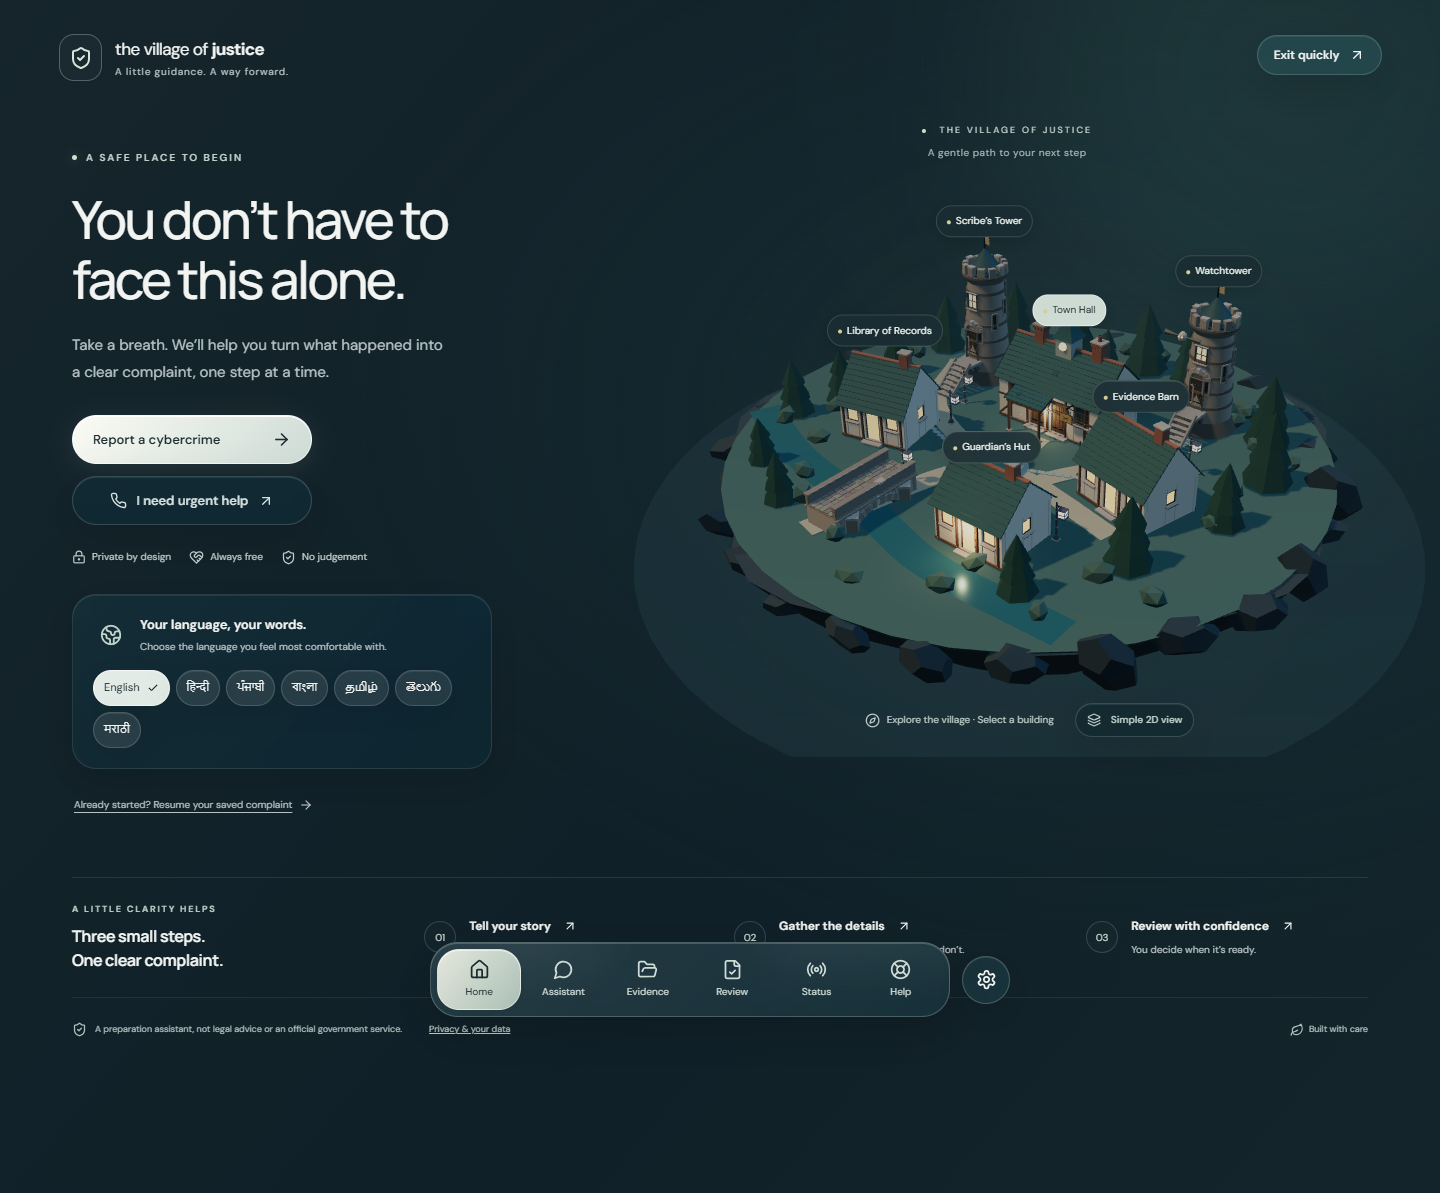
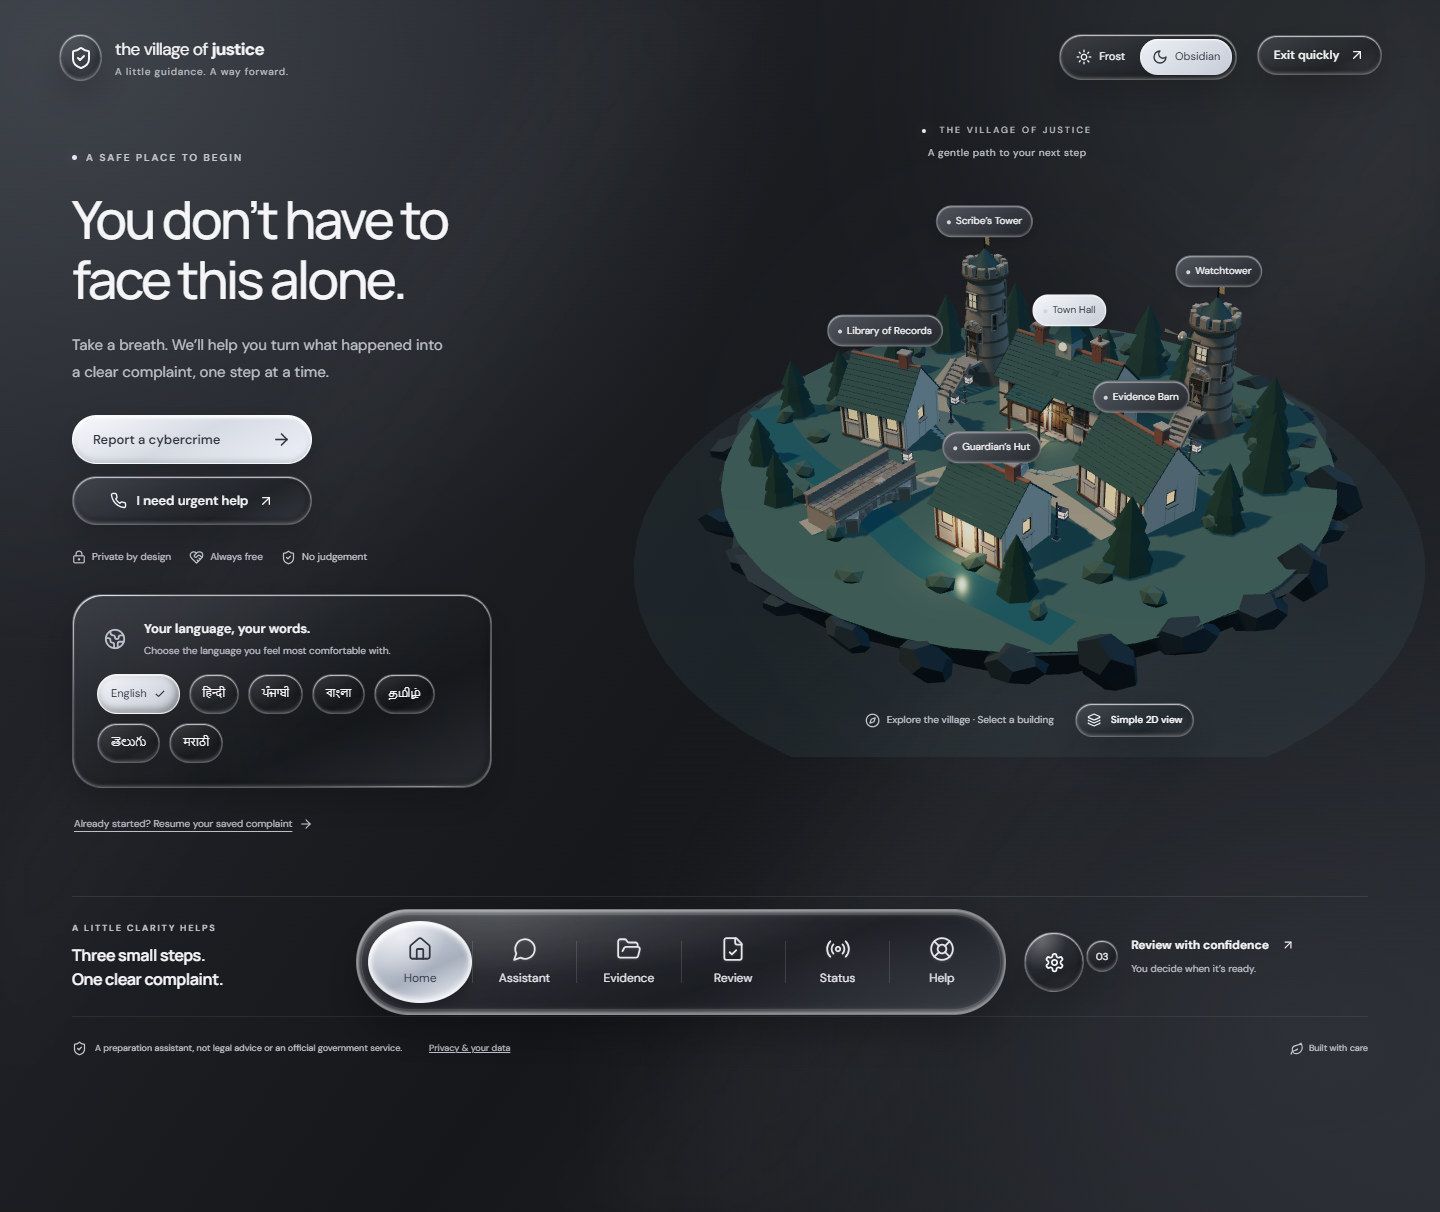
Update Site source

diff --git a/src/liquid-glass.css b/src/liquid-glass.css
@@ -1,0 +1,61 @@
+/* Sculpted optical surfaces, translated from the user's Frost / Obsidian reference. */
+:root{--bg:#191b1f;--text:#f5f5f7;--muted:#bdc0c8;--panel:rgba(32,34,39,.96);--scrim:rgba(27,29,34,.97);--glass:rgba(255,255,255,.08);--border:rgba(236,240,255,.23);--edge-light:rgba(255,255,255,.72);--edge-soft:rgba(255,255,255,.18);--edge-dark:rgba(0,0,0,.4);--surface:linear-gradient(155deg,rgba(219,225,240,.14),rgba(255,255,255,.025) 39%,rgba(0,0,0,.13) 67%,rgba(206,215,232,.09));--glass-shadow:inset 0 1px 1px var(--edge-light),inset 1px 0 2px var(--edge-soft),inset 0 -2px 3px var(--edge-soft),inset -2px -3px 8px var(--edge-dark),0 16px 35px rgba(0,0,0,.18);--radius:30px}
+.app{color:var(--text);background:radial-gradient(ellipse at 5% 4%,#5c626b78,transparent 37%),radial-gradient(ellipse at 90% 85%,#5f657133,transparent 40%),linear-gradient(125deg,#272a30,#15171a 55%,#24272c)}
+.app:before{content:'';position:absolute;inset:0;z-index:-1;pointer-events:none;background:linear-gradient(125deg,transparent 25%,#ffffff05 28%,transparent 35%,transparent 60%,#ffffff06 66%,transparent 75%);filter:blur(24px)}
+.ambient-one{background:#cad2df;opacity:.1}.ambient-two{background:#bcc5d6;opacity:.08}
+.glass{background:var(--surface);border:1px solid var(--border);box-shadow:var(--glass-shadow);backdrop-filter:blur(24px) saturate(110%);-webkit-backdrop-filter:blur(24px) saturate(110%)}
+.glass:is(.card,.workspace-panel,.modal,.urgent-card,.chat-bubble,.toast){position:relative;isolation:isolate}
+.glass:is(.card,.workspace-panel,.modal,.urgent-card,.chat-bubble):before{content:'';position:absolute;inset:0;border-radius:inherit;pointer-events:none;padding:1px;background:linear-gradient(135deg,#ffffffc9,transparent 18%,transparent 67%,#ffffff69 90%,transparent);mask:linear-gradient(#fff 0 0) content-box,linear-gradient(#fff 0 0);mask-composite:exclude}
+.button,.chip{background:var(--surface);box-shadow:var(--glass-shadow);border-color:var(--border);color:var(--text)}
+.button:after{content:'';position:absolute;inset:-80% -50%;pointer-events:none;background:linear-gradient(110deg,transparent 40%,#ffffff1f 49%,transparent 58%);transform:translateX(-65%) rotate(-10deg);transition:transform .65s ease}
+.button:hover:after{transform:translateX(65%) rotate(-10deg)}
+.button:not(:disabled):hover,.chip:hover{background:linear-gradient(155deg,#ffffff25,#ffffff05 50%,#ffffff13);box-shadow:var(--glass-shadow)}
+.primary{background:linear-gradient(155deg,#f8f9fd,#d7dbe3 48%,#edf0f7);color:#30343d;border-color:#ffffffc9;box-shadow:inset 0 2px 3px white,inset 0 -3px 5px #8992a250,0 9px 24px #0002}
+.primary:not(:disabled):hover{background:linear-gradient(155deg,#fff,#dfe3eb);color:#232731}
+.home-actions .secondary{background:var(--surface);color:var(--text)}
+.icon-button{border-radius:50%;background:radial-gradient(ellipse at 28% 8%,#ffffff30,transparent 43%),var(--surface);box-shadow:var(--glass-shadow)}
+.brand-mark{color:var(--text);border-color:var(--border);background:var(--surface);box-shadow:var(--glass-shadow);border-radius:50%}
+.language-card{background:var(--surface);border-color:var(--border);border-radius:30px;padding:24px}
+.language-icon{color:var(--muted)}.language-options{gap:9px}.language-options .chip{min-height:40px;padding:8px 13px}
+.chip[aria-pressed=true]{background:linear-gradient(145deg,#f4f5fa,#c5cad4);color:#2d323b;border-color:#fff9}
+.eyebrow,.trust-row span,.scene-heading,.scene-subtitle,.scene-caption,.footer-note,.footer-note button,.footer-leaf{color:#c4c7ce}
+.eyebrow>span,.tiny-dot{background:#e4e6ed;box-shadow:0 0 10px #ffffff30}
+.scene-mode{background:var(--surface);color:var(--text)}
+.village-label{background:linear-gradient(150deg,#555962eb,#22252aed)!important;color:#f5f5f7!important;border-color:#ffffff40!important;box-shadow:inset 0 1px 1px #ffffff8a,inset 0 -1px 2px #ffffff40,0 5px 12px #0002!important}
+.village-label[data-active=true],.village-label[data-hover=true]{background:linear-gradient(150deg,#f6f7fb,#c5cbd5)!important;color:#2e333d!important}
+.village-label-dot{background:#d0d3db}.journey-step>span{color:var(--text);border-color:var(--border);background:var(--surface);box-shadow:var(--glass-shadow)}
+.workspace-panel,.modal,.toast{background:linear-gradient(145deg,#ffffff0c,transparent 45%),var(--panel)}
+.document{background:var(--scrim)}.input{background:linear-gradient(160deg,#00000013,#ffffff05);box-shadow:inset 0 2px 6px #0002,inset 0 -1px 1px #ffffff38;border-radius:22px}
+.chat-bubble{background:linear-gradient(145deg,#ffffff12,#ffffff04);border-radius:28px 28px 28px 10px}.previous-answer{background:linear-gradient(145deg,#ffffff23,#ffffff0b)}
+.progress-track span{background:#cdd1dc}.status-timeline i.done{background:#c2c7d2}.status-emblem{background:var(--surface);box-shadow:var(--glass-shadow);border-color:var(--border)}
+.urgent-card{background:var(--surface)}.theme-switch{background:var(--surface)}
+.theme-switch button[aria-pressed=true]{background:linear-gradient(150deg,#fff,#c9ced8);color:#303641;box-shadow:inset 0 1px 2px #fff,0 3px 8px #0002}
+.switch{width:74px;height:44px;border-radius:99px;padding:6px;background:#11131888;box-shadow:inset 0 2px 4px #0006,inset 0 -1px 2px #ffffff50;border:2px solid #9297a075}
+.switch span{width:28px;height:28px;background:linear-gradient(135deg,#e3e6ee,#8e95a2);box-shadow:inset 0 1px 2px white,0 3px 7px #0006}
+.switch[aria-checked=true] span{transform:translateX(28px);background:linear-gradient(135deg,#fff,#ccd1db)}
+.dock-wrap{gap:18px;bottom:max(25px,env(safe-area-inset-bottom))}
+.dock{--dock-width:650px;border-radius:70px;padding:11px;background:radial-gradient(ellipse at 22% 0%,#ffffff29,transparent 45%),linear-gradient(160deg,#5a5e686e,#1c1e24d9 60%,#666d7a4d);border:1px solid #ffffff69;box-shadow:inset 0 3px 4px #ffffff7d,inset 2px 0 4px #ffffff40,inset 0 -3px 4px #ffffff69,inset 0 0 12px #ffffff15,0 20px 40px #0004;backdrop-filter:blur(28px) saturate(100%)}
+.dock:after{content:'';position:absolute;inset:4px;border-radius:inherit;border:1px solid #ffffff18;pointer-events:none}
+.dock>button{min-height:82px;gap:7px;font-size:12px;color:#e5e6ec;border-radius:50%}.dock>button svg{width:26px;height:26px;stroke-width:1.65;filter:drop-shadow(0 1px 1px #ffffff20)}
+.dock>button+button:before{content:'';position:absolute;top:30%;height:40%;border-left:1px solid #ffffff21;transform:translateX(-52px)}
+.dock-thumb{width:calc((100% - 22px)/6);height:calc(100% - 22px);left:11px;top:11px;border-radius:50%;background:radial-gradient(ellipse at 32% 17%,#fff9,transparent 45%),linear-gradient(155deg,#e6e9f0,#a7afbd 60%,#f4f6fc);border:1px solid #fff9;box-shadow:inset 0 3px 5px #fff,inset 1px 0 7px #ffffff80,inset 0 -3px 5px #fff9,0 7px 12px #0003}
+.dock>button[aria-selected=true]{color:#303742}.settings-toggle{width:60px;height:60px;background:radial-gradient(ellipse at 28% 8%,#ffffff45,transparent 43%),var(--surface);box-shadow:var(--glass-shadow)}
+.compact .dock{--dock-width:450px}.compact .dock>button{min-height:54px}.compact .dock>button+button:before{display:none}
+.appearance-picker{position:absolute;right:calc(4% + 145px);top:34px;z-index:10;display:flex;gap:3px;padding:4px;border-radius:99px}.appearance-picker button{display:flex;align-items:center;gap:7px;background:transparent;padding:8px 12px;border-radius:99px;font-size:11px;min-height:36px}.appearance-picker button[aria-pressed=true]{background:linear-gradient(145deg,#edf0f5,#c6ccd7);color:#303540;box-shadow:inset 0 1px 2px white,0 2px 7px #0002}
+:root[data-theme=frost]{--bg:#e3e6ed;--text:#303641;--muted:#535d6d;--panel:rgba(240,242,248,.96);--scrim:rgba(247,248,252,.97);--border:rgba(255,255,255,.8);--edge-light:#fff;--edge-soft:rgba(255,255,255,.8);--edge-dark:rgba(134,146,165,.15);--surface:linear-gradient(145deg,#ffffff80,#ffffff20 40%,#c3ccdc24 65%,#ffffff69);--glass-shadow:inset 0 2px 3px #fff,inset 2px 0 3px #ffffffb3,inset 0 -2px 4px #fff,inset -3px -3px 10px #b8c1d32e,0 14px 30px #535c751f}
+:root[data-theme=frost] .app{background:radial-gradient(ellipse at 0% 8%,#ffffffeb,transparent 45%),radial-gradient(ellipse at 80% 75%,#fff9,transparent 40%),linear-gradient(130deg,#e4e7ee,#cdd3de 60%,#edf0f6)}
+:root[data-theme=frost] .app:before{background:linear-gradient(125deg,transparent 12%,#fff9 21%,transparent 32%,transparent 60%,#ffffff80 70%,transparent 80%)}
+:root[data-theme=frost] .eyebrow,:root[data-theme=frost] .trust-row span,:root[data-theme=frost] .footer-note,:root[data-theme=frost] .footer-note button,:root[data-theme=frost] .footer-leaf,:root[data-theme=frost] .scene-heading,:root[data-theme=frost] .scene-subtitle,:root[data-theme=frost] .scene-caption{color:#535d6d}
+:root[data-theme=frost] .language-card,:root[data-theme=frost] .scene-mode,:root[data-theme=frost] .brand-mark{background:var(--surface);color:var(--text);border-color:var(--border)}
+:root[data-theme=frost] .language-icon,:root[data-theme=frost] .home-actions .secondary{color:#424c5a}
+:root[data-theme=frost] .dock{background:radial-gradient(ellipse at 10% 0%,#ffffffbf,transparent 60%),linear-gradient(155deg,#ffffff90,#bac4d64d 60%,#ffffff75);border-color:#fff;box-shadow:inset 0 4px 6px #fff,inset 3px 0 7px #fff,inset 0 -4px 6px #fff,inset 0 0 15px #fff9,0 22px 32px #535c7538}
+:root[data-theme=frost] .dock>button{color:#46505f}:root[data-theme=frost] .dock>button+button:before{border-color:#69778a40}
+:root[data-theme=frost] .dock-thumb{background:radial-gradient(ellipse at 25% 10%,#fff,transparent 65%),linear-gradient(150deg,#ffffffad,#d4dbe7ba);box-shadow:inset 0 3px 6px #fff,inset 2px 0 5px #fff,inset 0 -4px 6px #fff,0 8px 12px #65738a30}
+:root[data-theme=frost] .chip[aria-pressed=true]{background:linear-gradient(145deg,#fff,#d3d9e4);color:#303641}
+:root[data-theme=frost] .button:not(.primary):hover,:root[data-theme=frost] .chip:hover{background:linear-gradient(150deg,#ffffffb3,#e0e5ef80);color:#303641}
+.toast{position:fixed;background:var(--panel);bottom:150px}
+@media(max-width:760px){.appearance-picker{position:relative;top:auto;right:auto;width:max-content;margin:85px auto -86px;z-index:11}.home-layout{padding-top:125px}.workspace-layout{padding-top:130px}.dock-wrap{width:calc(100% - 22px);gap:8px;bottom:max(14px,env(safe-area-inset-bottom))}.dock{--dock-width:100%;padding:7px;border-radius:55px}.dock>button{min-height:57px;font-size:9px;gap:5px}.dock>button svg{width:22px;height:22px}.dock>button+button:before{display:none}.dock-thumb{left:7px;top:7px;width:calc((100% - 14px)/6);height:calc(100% - 14px);border-radius:99px}.settings-toggle{width:46px;height:46px}.compact .dock{--dock-width:100%}.compact .dock>button{min-height:44px}.language-options .chip{min-height:44px}.toast{bottom:110px}}
+@media(prefers-reduced-transparency:reduce){.glass,.workspace-panel,.modal,.toast{background:var(--panel)!important;backdrop-filter:none!important;-webkit-backdrop-filter:none!important}.primary,.dock-thumb{background:#e1e5ee!important}.document{background:var(--scrim)}}
+@supports not(backdrop-filter:blur(1px)){.glass{background:var(--panel)!important}.primary,.dock-thumb{background:#e1e5ee!important}}
+:root[data-contrast=true]{--text:#fff;--muted:#e5e5e5;--panel:#151515;--scrim:#151515;--border:#ddd;--surface:#222}:root[data-contrast=true] .app{background:#111}:root[data-contrast=true] .glass{background:#222;color:#fff}:root[data-contrast=true] .dock>button{color:#fff}:root[data-contrast=true] .dock>button[aria-selected=true]{color:#222}
+@media print{.app{background:#fff}.app:before{display:none}}

diff --git a/src/App.tsx b/src/App.tsx
@@ -35,6 +35,7 @@ export default function App(){
   <a className="skip-link" href="#main-content">Skip to content</a>
   <div className="ambient ambient-one"/><div className="ambient ambient-two"/>
   <div className="brand" aria-label="Village of Justice"><span className="brand-mark"><ShieldCheck size={24}/></span><div>the village of <strong>justice</strong><span>A little guidance. A way forward.</span></div></div>
+  <div className="appearance-picker glass" aria-label="Appearance"><button aria-pressed={theme==='frost'} onClick={()=>setTheme('frost')}><Sun size={16}/>Frost</button><button aria-pressed={theme==='obsidian'} onClick={()=>setTheme('obsidian')}><Moon size={16}/>Obsidian</button></div>
   <GlassButton className="quick-exit" onClick={quickExit}>Exit quickly <ArrowUpRight size={16}/></GlassButton>
   <main id="main-content" ref={contentRef} className={active==='home'?'home-layout':'workspace-layout'} onScroll={()=>setTyping(false)}>
    <div role="region" className={`scene-area ${active!=='home'?'scene-background':''}`} aria-label="The Village of Justice, an interactive 3D village">

diff --git a/src/main.tsx b/src/main.tsx
@@ -3,4 +3,5 @@ import {createRoot} from 'react-dom/client';
 import './i18n';
 import App from './App';
 import './styles.css';
+import './liquid-glass.css';
 createRoot(document.getElementById('root')!).render(<React.StrictMode><App/></React.StrictMode>);
